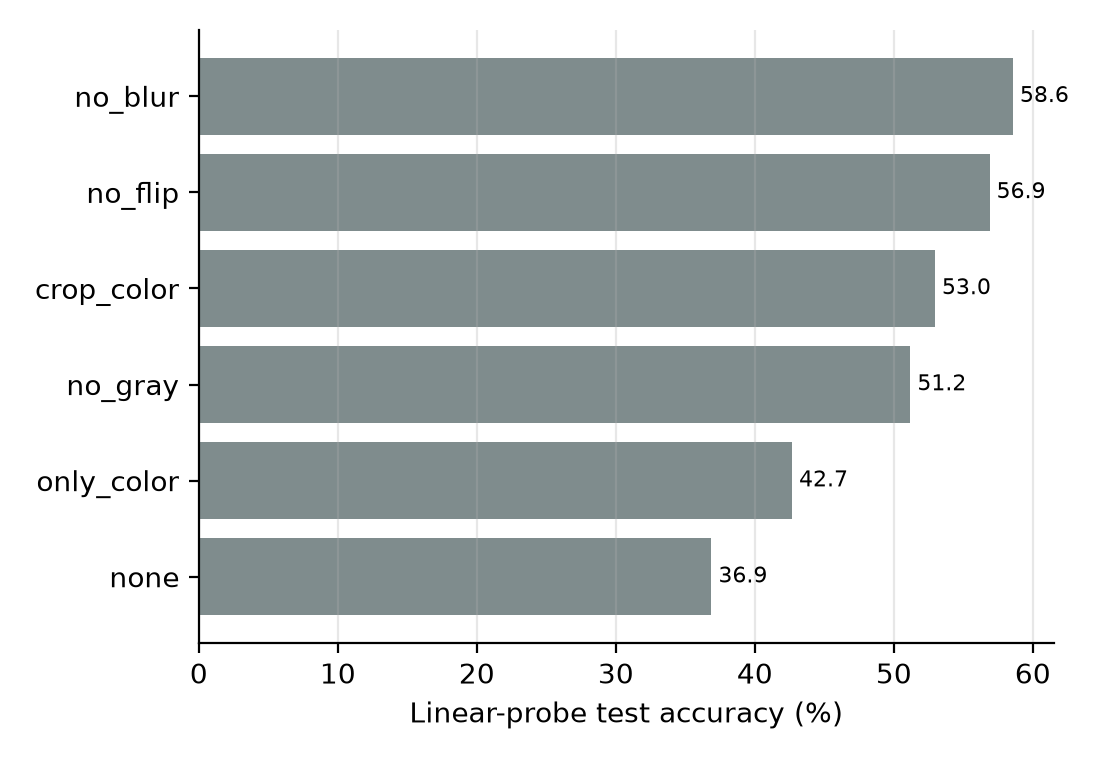
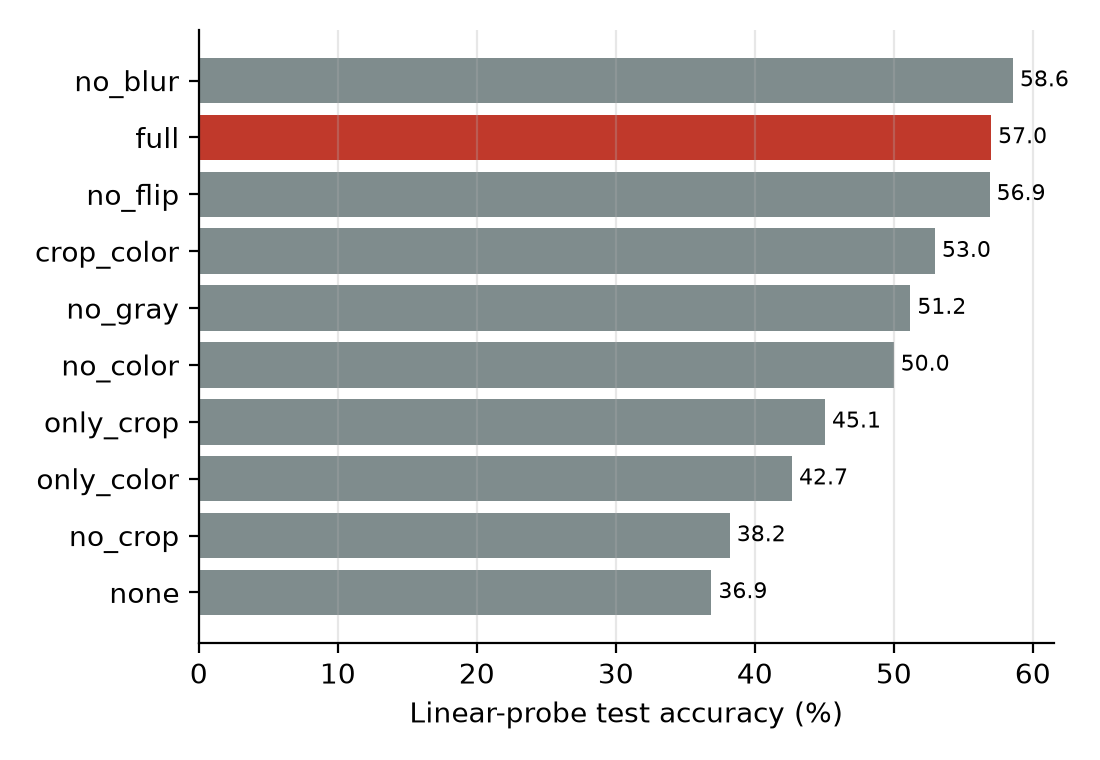
Add Sandhya/Nidhi ablation results, ablation figures, and full ablation write-up

diff --git a/report/abstract_ablation_discussion.md b/report/abstract_ablation_discussion.md
@@ -1,0 +1,102 @@
+# Abstract, ablation results, discussion, conclusion (Shubham)
+All numbers come from results/all_results.csv (one seed, STL-10 test set, 8,000 images).
+
+## Abstract
+Labelled data is expensive, while unlabelled images are easy to collect. We study whether self-supervised
+contrastive pretraining with SimCLR lets a classifier reach good accuracy with far fewer labels, and which
+data augmentations matter most when compute is limited. Using STL-10, we pretrain a ResNet-18 encoder on
+100,000 unlabelled images for 50 epochs on a single GPU, then train classifiers on 100%, 20%, 10% and 1%
+of the 5,000 labelled training images. With 10% of the labels, a supervised ResNet-18 trained from scratch
+reaches 44.3% test accuracy, while a linear probe on the SimCLR encoder reaches 65.2% and fine-tuning reaches
+65.5%. With only 1% of the labels (50 images), the linear probe reaches 53.0%, double the baseline's 26.8%.
+An ablation over five augmentations on a short 20-epoch schedule shows that random resized crop matters most:
+removing it lowers linear-probe accuracy from 57.0% to 38.2%, close to using no augmentation at all (36.9%).
+Colour jitter (-7.0 points) and grayscale (-5.8) come next, while flip and blur have no measurable benefit on
+this budget. Smaller batches did better at a fixed number of epochs: 59.3% at batch size 64 versus 53.2% at 512.
+
+## Ablation results
+Schedule for every run: 20 epochs of SimCLR pretraining on the same 20,000 unlabelled images (seed 0),
+batch size 256 unless stated, then a linear probe on all 5,000 labels. Figures: results/aug_ablation.png,
+results/batchsize_ablation.png.
+
+### Augmentations
+| Setting | Augmentations on | Accuracy (%) | Change vs full |
+|---|---|---|---|
+| full | crop, flip, colour, gray, blur | 57.0 | - |
+| no_crop | flip, colour, gray, blur | 38.2 | -18.8 |
+| no_color | crop, flip, gray, blur | 50.0 | -7.0 |
+| no_gray | crop, flip, colour, blur | 51.2 | -5.8 |
+| no_flip | crop, colour, gray, blur | 56.9 | -0.1 |
+| no_blur | crop, flip, colour, gray | 58.6 | +1.6 |
+| crop_color | crop, colour | 53.0 | -4.0 |
+| only_crop | crop | 45.1 | -11.9 |
+| only_color | colour | 42.7 | -14.3 |
+| none | none | 36.9 | -20.1 |
+
+Ranking by the drop when one augmentation is removed: crop (18.8) > colour jitter (7.0) > grayscale (5.8)
+> flip (0.1) and blur (-1.6, i.e. accuracy went up).
+
+### Batch size
+All augmentations on, same 20 epochs and 20,000 images. The batch-256 point is the `full` run above.
+
+| Batch size | Updates per epoch | Accuracy (%) | Pretraining time (s) |
+|---|---|---|---|
+| 64 | 312 | 59.3 | 930 |
+| 128 | 156 | 58.2 | 936 |
+| 256 | 78 | 57.0 | 944 |
+| 512 | 39 | 53.2 | 979 |
+
+## Discussion
+
+### Does pretraining help when labels are scarce?
+- Yes, and more so the fewer labels there are. The gap between the best SimCLR model and the baseline is
+  +5.8 points at 100% labels, +17.8 at 20%, +21.2 at 10% and +26.2 at 1% (results/labels_vs_acc.png).
+- Linear probe vs fine-tune: fine-tuning is best at 100%, 20% and 10% labels (81.3, 71.2, 65.5%), but at 1%
+  (50 images) the linear probe is clearly better (53.0% vs 43.6%). Training all 11M weights on 50 images
+  overfits, while the frozen encoder keeps the pretrained features intact.
+- At 100% labels the linear probe (72.6%) is below the supervised baseline (75.5%): with 5,000 labels the
+  baseline has enough data, and 50 epochs of pretraining give useful but incomplete features.
+  Fine-tuning still beats the baseline by 5.8 points.
+
+### Which augmentations matter most on a small budget?
+- Random resized crop is by far the most important. Without it accuracy (38.2%) is almost the same as with
+  no augmentation (36.9%). Crop alone (45.1%) is better than colour jitter alone (42.7%).
+- Colour jitter is second. Adding it to crop raises accuracy from 45.1% to 53.0% (+7.9 points). This agrees with Chen et al. (2020), who found crop plus colour distortion to
+  be the key pair: without colour changes, two crops of one image can be matched by their colour
+  statistics alone, so the network learns less about shape and content.
+- Grayscale also helps (-5.8 points when removed), consistent with it being another colour distortion.
+- Flip and blur did not help here. Removing flip changed accuracy by 0.1 points, and removing blur raised it
+  by 1.6 points. Possible reasons: 96x96 images are already low in detail, so blur removes useful
+  information, and a 20-epoch schedule may be too short to benefit from extra, weaker augmentations.
+  Both differences are within what one seed can explain, so we read them as "no benefit", not "harmful".
+- Cost: augmentations run on the CPU and data loading limited speed. Within the same Kaggle session,
+  20 epochs took 944 s with all augmentations, 645 s without colour jitter and 357 s with crop only.
+  The no_blur run took 633 s, but it ran in a different session, so that comparison is only indicative.
+- Practical answer for a small budget: use crop, flip, colour jitter and grayscale, and skip blur. That
+  exact set (no_blur) scored 58.6%, slightly above the full set, and avoids the cost of blur.
+
+### Batch size
+- SimCLR reports that larger batches help because they give more negatives per step. On our budget the
+  opposite happened: accuracy fell from 59.3% (batch 64) to 53.2% (batch 512).
+- The likely reason is the number of updates. With a fixed 20 epochs, batch 512 makes only 39 updates per
+  epoch versus 312 for batch 64, and the paper's large-batch advantage appears with long training (hundreds
+  of epochs) and the LARS optimiser, which we did not use.
+- Run time was almost the same for every batch size (930-979 s), which again points to CPU data loading,
+  not the GPU, as the bottleneck. On a small budget a smaller batch is the better choice.
+
+### Limitations
+- Short pretraining (50 epochs vs 100 to 1,000 in the paper), so absolute accuracies are lower than published.
+- Ablations use 20 epochs on a 20,000-image subset and one seed, so differences under about 2 points
+  (flip, blur) may be noise.
+- The ablations ran in two Kaggle sessions; accuracy is unaffected, but run times are only fully
+  comparable within one session.
+- AdamW instead of the LARS optimiser, and batch sizes up to 512 instead of up to 8,192 in the paper.
+- 96x96 images and a ResNet-18 only.
+
+## Conclusion
+SimCLR pretraining on unlabelled STL-10 images improved accuracy over a supervised baseline at every label
+fraction we tested (fine-tuning at 100%, 20% and 10%; the linear probe at 1%), with the largest gains when
+labels were scarcest (+21.2 points at 10% labels, +26.2 at 1%). On a small compute budget, random resized crop
+is the augmentation that matters most, followed by colour jitter and grayscale; flip and blur can be dropped
+without losing accuracy. Smaller batches worked better than larger ones at a fixed number of epochs. Future
+work: longer pretraining, more seeds for the ablations, and the LARS optimiser with larger batches.

diff --git a/README.md b/README.md
@@ -43,7 +43,11 @@ STL-10 test accuracy (8,000 images), ResNet-18, one seed. SimCLR pretrained for 
 ![Accuracy vs labels](results/labels_vs_acc.png)
 
 Augmentation and batch-size ablations (20 epochs, 20k images, linear probe at 100% labels):
-`results/aug_ablation.png`, `results/batchsize_ablation.png`, all numbers in `results/all_results.csv`.
+
+![Augmentation ablation](results/aug_ablation.png)
+![Batch size](results/batchsize_ablation.png)
+
+Random resized crop matters most (removing it: 57.0 to 38.2%), then colour jitter (-7.0) and grayscale (-5.8); flip and blur gave no measurable benefit. Smaller batches did better at a fixed 20 epochs (64: 59.3%, 512: 53.2%). All numbers: `results/all_results.csv`.
 
 Pretrained encoder: `full.pt` (Google Drive: https://drive.google.com/drive/folders/19Jx_VJRAVgrmFSTTiKfxzuYg_Dki9dWL). Place it in `checkpoints/` to rerun `scripts/run_main_eval.sh`.
 
